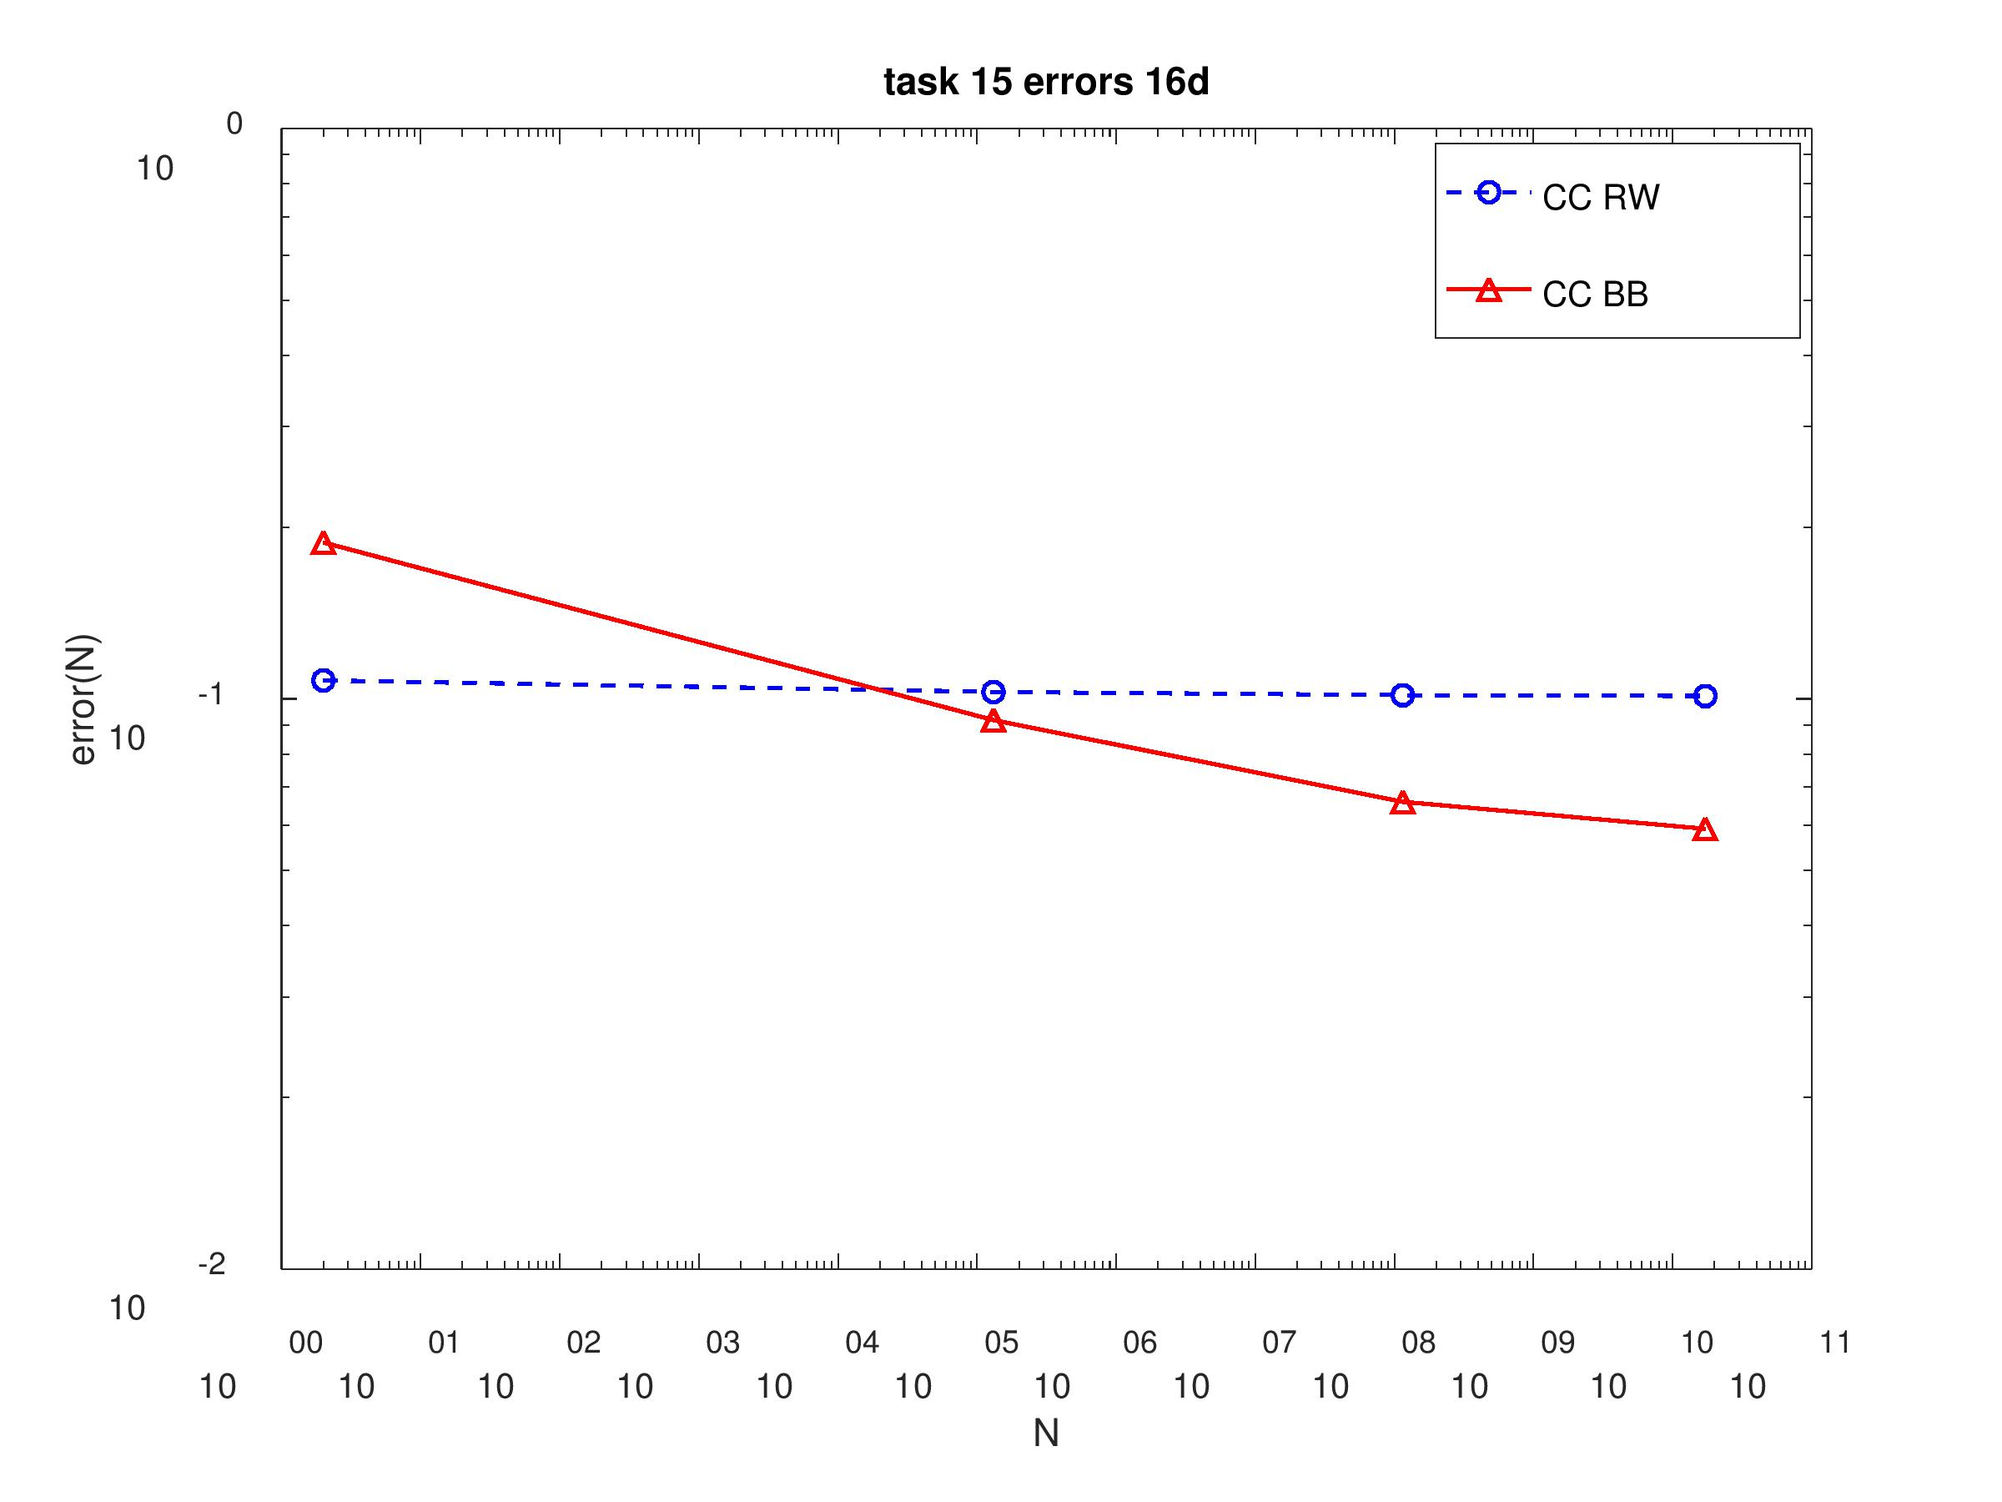
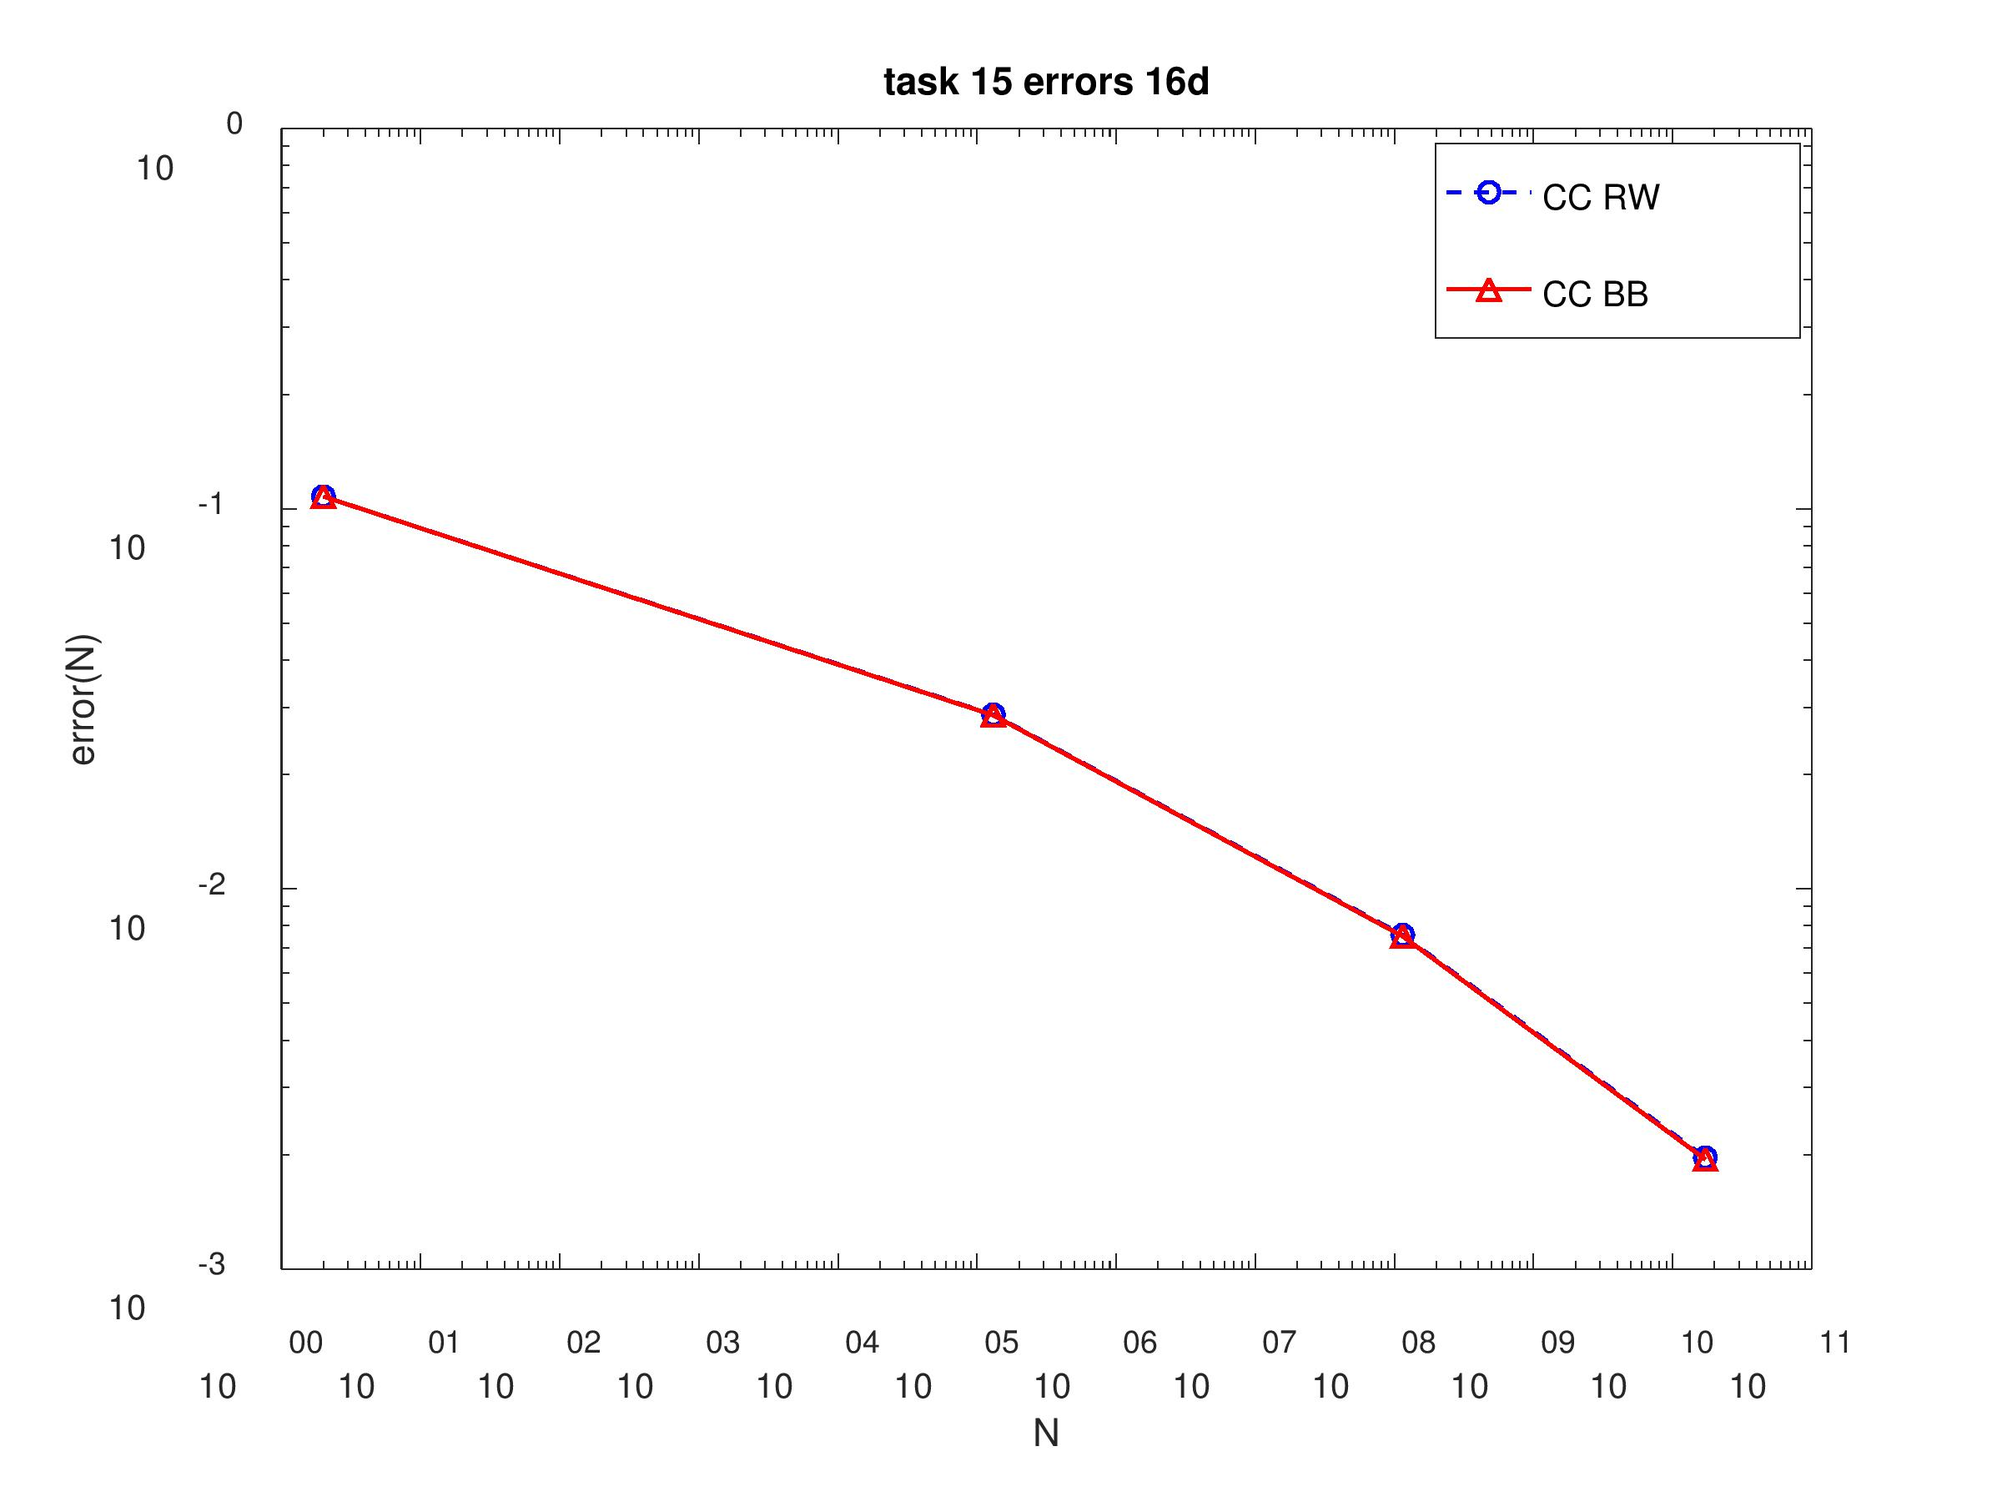
bugs15,16,17fixed

diff --git a/Final/worksheet_3/main.cpp b/Final/worksheet_3/main.cpp
@@ -201,7 +201,7 @@ int main(int argc, char* argv[])
 //	std::cout << discrete_geometric_average_simulation(rng, Task_3::s0, Task_3::r, Task_3::T, Task_3::M, Task_3::K, Task_3::sigma, N) << std::endl;
 
 //	std::cout << continuous_geometric_average_exact(Task_3::s0, Task_3::r, Task_3::T, Task_3::K, Task_3::sigma) << std::endl;
-
+/*
   Task_3::M = 10;
 	double calculated_result;
 	double exact_result;
@@ -212,7 +212,7 @@ int main(int argc, char* argv[])
         std::cout<<"Error opening the file"<<std::endl;
     }
 
-	for(int N=1; N<=1000000; N*=10)
+	for(int N=1; N<=1000000; N*=2)
 	{
 		calculated_result = discrete_geometric_average_simulation(rng, Task_3::s0, Task_3::r, Task_3::T, Task_3::M, Task_3::K, Task_3::sigma, N);
 		exact_result = discrete_geometric_average_exact(Task_3::s0, Task_3::r, Task_3::T, Task_3::M, Task_3::K, Task_3::sigma);
@@ -228,7 +228,7 @@ int main(int argc, char* argv[])
     }
 
 	Task_3::M = 200;
-	for(int N=1; N<=1000000; N*=10)
+	for(int N=1; N<=1000000; N*=2)
 	{
 		calculated_result = discrete_geometric_average_simulation(rng, Task_3::s0, Task_3::r, Task_3::T, Task_3::M, Task_3::K, Task_3::sigma, N);
 		exact_result = discrete_geometric_average_exact(Task_3::s0, Task_3::r, Task_3::T, Task_3::M, Task_3::K, Task_3::sigma);
@@ -236,8 +236,8 @@ int main(int argc, char* argv[])
 		myfile << N << " " << absolute_error << std::endl;
 	}
 
-	myfile.close();
-
+	myfile.close();*/
+/*
 	//////////////////////////////////////////////////////////
 	//////////////////////////Task_4//////////////////////////
 	//////////////////////////////////////////////////////////
@@ -435,7 +435,7 @@ int main(int argc, char* argv[])
 	//////////////////////////////////////////////////////////
 	//////////////////////////Task_7//////////////////////////
 	//////////////////////////////////////////////////////////
-	/*
+*/	/*
 	std::cout << "Van der Corput Sequence" << std::endl;
 	std::vector<double> x = van_der_corput_sequence(3, 10, pow(10.,-12.));
 	for(int i=0; i<10; i++)
@@ -446,7 +446,7 @@ int main(int argc, char* argv[])
 	for(int i=0; i<20; i++)
 		std::cout << prime_numbers[i] << std::endl;
 	*/
-
+/*
 	Task_7::d = 2;
 	Task_7::n = 100;
 
@@ -614,7 +614,7 @@ int main(int argc, char* argv[])
 
 
 
-
+*/
 
 	//////////////////////////////////////////////////////////
 	//////////////////////////Task_15/////////////////////////
@@ -627,8 +627,7 @@ int main(int argc, char* argv[])
 	Task_15::sigma = 0.25;
 	Task_15::mu = 0.1;
 	Task_15::K = 0;
-    Task_15::scale_factor = exp(-Task_15::mu*Task_15::T);
-	Task_15::nodes = new std::vector<std::vector<double> >(Task_15::dimension_M);
+    Task_15::nodes = new std::vector<std::vector<double> >(Task_15::dimension_M);
 	Task_15::weights = new std::vector<std::vector<double> >(Task_15::dimension_M);
     Task_15::write_in_file = false;
     Task_15::use_trap_rule = false;
@@ -649,8 +648,8 @@ int main(int argc, char* argv[])
 		myfile << Task_15::N << "	";
         Task_15::simulation_result_rw = integrate_with_sparse_grid(asian_option_call_integrand,Task_15::dimension_M,l,Task_15::nodes, Task_15::weights,Task_15::write_in_file,Task_15::use_trap_rule,Task_15::S0, Task_15::K,Task_15::sigma,Task_15::mu,Task_15::dimension_M,Task_15::T,false);
 		Task_15::simulation_result_bb = integrate_with_sparse_grid(asian_option_call_integrand,Task_15::dimension_M,l,Task_15::nodes, Task_15::weights,Task_15::write_in_file,Task_15::use_trap_rule,Task_15::S0, Task_15::K,Task_15::sigma,Task_15::mu,Task_15::dimension_M,Task_15::T,Task_15::use_bb);
-        myfile << fabs(Task_15::scale_factor*Task_15::simulation_result_rw-Task_15::exact_value) << "	";
-		myfile << fabs(Task_15::scale_factor*Task_15::simulation_result_bb-Task_15::exact_value) << std::endl;
+        myfile << fabs(Task_15::simulation_result_rw-Task_15::exact_value) << "	";
+		myfile << fabs(Task_15::simulation_result_bb-Task_15::exact_value) << std::endl;
 
 	}
 	myfile.close();
@@ -668,7 +667,7 @@ int main(int argc, char* argv[])
     Task_16::sigma = 0.25;
     Task_16::mu = 0.1;
     Task_16::K = 0;
-    Task_16::scale_factor = exp(-Task_16::mu*Task_16::T);
+    
 
     Task_16::write_in_file = false;
     Task_16::use_trap_rule = false;
@@ -699,11 +698,11 @@ int main(int argc, char* argv[])
         quasi_monte_carlo_multivariate(Task_16::nodes, Task_16::weights_vec, (int)Task_16::N, Task_16::dimension_M);
         Task_16::calculated_result = integrate_by_point_evaluation_multivariate(asian_option_call_integrand, (int)Task_16::N, Task_16::nodes, Task_16::weights_vec, Task_16::S0,Task_16::K,Task_16::sigma,Task_16::mu,Task_16::dimension_M,Task_16::T,false);
         
-        myfile<<fabs(Task_16::exact_value-Task_16::scale_factor*Task_16::calculated_result)<<" ";
+        myfile<<fabs(Task_16::exact_value-Task_16::calculated_result)<<" ";
         //QMC with Brownian Bridge
         Task_16::calculated_result = integrate_by_point_evaluation_multivariate(asian_option_call_integrand, (int)Task_16::N, Task_16::nodes, Task_16::weights_vec, Task_16::S0,Task_16::K,Task_16::sigma,Task_16::mu,Task_16::dimension_M,Task_16::T,true);
         
-        myfile<<fabs(Task_16::exact_value-Task_16::scale_factor*Task_16::calculated_result)<<" ";
+        myfile<<fabs(Task_16::exact_value-Task_16::calculated_result)<<" ";
         free(Task_16::nodes);
         free(Task_16::weights_vec);
         //////////////////////////////////
@@ -715,10 +714,10 @@ int main(int argc, char* argv[])
         monte_carlo_multivariate(Task_16::nodes, Task_16::weights_vec, (int)Task_16::N, Task_16::dimension_M,rng);
         Task_16::calculated_result = integrate_by_point_evaluation_multivariate(asian_option_call_integrand, (int)Task_16::N, Task_16::nodes, Task_16::weights_vec, Task_16::S0,Task_16::K,Task_16::sigma,Task_16::mu,Task_16::dimension_M,Task_16::T,false);
         
-        myfile<<fabs(Task_16::exact_value-Task_16::scale_factor*Task_16::calculated_result)<<" ";
+        myfile<<fabs(Task_16::exact_value-Task_16::calculated_result)<<" ";
         //MC with Brownian Bridge
         Task_16::calculated_result = integrate_by_point_evaluation_multivariate(asian_option_call_integrand, (int)Task_16::N, Task_16::nodes, Task_16::weights_vec, Task_16::S0,Task_16::K,Task_16::sigma,Task_16::mu,Task_16::dimension_M,Task_16::T,true);
-        myfile<<fabs(Task_16::exact_value-Task_16::scale_factor*Task_16::calculated_result)<<" ";
+        myfile<<fabs(Task_16::exact_value-Task_16::calculated_result)<<" ";
         
         free(Task_16::nodes);
         free(Task_16::weights_vec);
@@ -734,11 +733,11 @@ int main(int argc, char* argv[])
         
         Task_16::calculated_result = integrate_by_point_evaluation_multivariate(asian_option_call_integrand, (int)pow(Task_16::N_full_grid,Task_16::dimension_M), Task_16::nodes, Task_16::weights_vec, Task_16::S0,Task_16::K,Task_16::sigma,Task_16::mu,Task_16::dimension_M,Task_16::T,false);
         
-        myfile<<fabs(Task_16::exact_value-Task_16::scale_factor*Task_16::calculated_result)<<" ";
+        myfile<<fabs(Task_16::exact_value-Task_16::calculated_result)<<" ";
         //with_Brownian_Bridge
         Task_16::calculated_result = integrate_by_point_evaluation_multivariate(asian_option_call_integrand, (int)pow(Task_16::N_full_grid,Task_16::dimension_M), Task_16::nodes, Task_16::weights_vec, Task_16::S0,Task_16::K,Task_16::sigma,Task_16::mu,Task_16::dimension_M,Task_16::T,true);
         
-        myfile<<fabs(Task_16::exact_value-Task_16::scale_factor*Task_16::calculated_result)<<" ";
+        myfile<<fabs(Task_16::exact_value-Task_16::calculated_result)<<" ";
         free(Task_16::nodes);
         free(Task_16::weights_vec);
         //////////////////////////////////
@@ -751,11 +750,11 @@ int main(int argc, char* argv[])
         
         Task_16::calculated_result = integrate_by_point_evaluation_multivariate(asian_option_call_integrand, (int)pow(Task_16::N_full_grid,Task_16::dimension_M), Task_16::nodes, Task_16::weights_vec, Task_16::S0,Task_16::K,Task_16::sigma,Task_16::mu,Task_16::dimension_M,Task_16::T,false);
         
-        myfile<<fabs(Task_16::exact_value-Task_16::scale_factor*Task_16::calculated_result)<<" ";
+        myfile<<fabs(Task_16::exact_value-Task_16::calculated_result)<<" ";
         //with_Brownian_Bridge
         Task_16::calculated_result = integrate_by_point_evaluation_multivariate(asian_option_call_integrand, (int)pow(Task_16::N_full_grid,Task_16::dimension_M), Task_16::nodes, Task_16::weights_vec, Task_16::S0,Task_16::K,Task_16::sigma,Task_16::mu,Task_16::dimension_M,Task_16::T,true);
         
-        myfile<<fabs(Task_16::exact_value-Task_16::scale_factor*Task_16::calculated_result)<<" ";
+        myfile<<fabs(Task_16::exact_value-Task_16::calculated_result)<<" ";
         
         free(Task_16::nodes);
         free(Task_16::weights_vec);
@@ -769,10 +768,10 @@ int main(int argc, char* argv[])
         //without_Brownian_Bridge
         Task_16::simulation_result_rw = integrate_with_sparse_grid(asian_option_call_integrand,Task_16::dimension_M,l,Task_16::nodes, Task_16::weights,Task_16::write_in_file,true,Task_16::S0, Task_16::K,Task_16::sigma,Task_16::mu,Task_16::dimension_M,Task_16::T,false);
         
-        myfile << fabs(Task_16::scale_factor*Task_16::simulation_result_rw-Task_16::exact_value)<<" ";
+        myfile << fabs(Task_16::simulation_result_rw-Task_16::exact_value)<<" ";
         //with_Brownian_Bridge
         Task_16::simulation_result_bb = integrate_with_sparse_grid(asian_option_call_integrand,Task_16::dimension_M,l,Task_16::nodes, Task_16::weights,Task_16::write_in_file,true,Task_16::S0, Task_16::K,Task_16::sigma,Task_16::mu,Task_16::dimension_M,Task_16::T,true);
-        myfile << fabs(Task_16::scale_factor*Task_16::simulation_result_bb-Task_16::exact_value)<<" ";
+        myfile << fabs(Task_16::simulation_result_bb-Task_16::exact_value)<<" ";
         
         free(Task_16::nodes);
         free(Task_16::weights);
@@ -786,10 +785,10 @@ int main(int argc, char* argv[])
         //without_Brownian_Bridge
         Task_16::simulation_result_rw = integrate_with_sparse_grid(asian_option_call_integrand,Task_16::dimension_M,l,Task_16::nodes, Task_16::weights,Task_16::write_in_file,false,Task_16::S0, Task_16::K,Task_16::sigma,Task_16::mu,Task_16::dimension_M,Task_16::T,false);
         
-        myfile << fabs(Task_16::scale_factor*Task_16::simulation_result_rw-Task_16::exact_value) <<" ";
+        myfile << fabs(Task_16::simulation_result_rw-Task_16::exact_value) <<" ";
         //with_Brownian_Bridge
         Task_16::simulation_result_bb = integrate_with_sparse_grid(asian_option_call_integrand,Task_16::dimension_M,l,Task_16::nodes, Task_16::weights,Task_16::write_in_file,false,Task_16::S0, Task_16::K,Task_16::sigma,Task_16::mu,Task_16::dimension_M,Task_16::T,true);
-        myfile << fabs(Task_16::scale_factor*Task_16::simulation_result_bb-Task_16::exact_value)<<std::endl;
+        myfile << fabs(Task_16::simulation_result_bb-Task_16::exact_value)<<std::endl;
         
         free(Task_16::nodes);
         free(Task_16::weights);
@@ -811,7 +810,7 @@ int main(int argc, char* argv[])
     Task_17::sigma = 0.25;
     Task_17::mu = 0.1;
     Task_17::K = 10;
-    Task_17::scale_factor = exp(-Task_17::mu*Task_17::T);
+    
     Task_17::write_in_file = false;
     Task_17::use_trap_rule = false;
     Task_17::use_bb = true;
@@ -847,10 +846,10 @@ int main(int argc, char* argv[])
         quasi_monte_carlo_multivariate(Task_17::nodes, Task_17::weights_vec, (int)Task_17::N, Task_17::dimension_M);
 
         Task_17::calculated_result = integrate_by_point_evaluation_multivariate(asian_option_call_integrand, (int)Task_17::N, Task_17::nodes, Task_17::weights_vec, Task_17::S0,Task_17::K,Task_17::sigma,Task_17::mu,Task_17::dimension_M,Task_17::T,false);
-        myfile<<fabs(Task_17::exact_value-Task_17::scale_factor*Task_17::calculated_result)<<" ";
+        myfile<<fabs(Task_17::exact_value-Task_17::calculated_result)<<" ";
         //QMC with Brownian Bridge
         Task_17::calculated_result = integrate_by_point_evaluation_multivariate(asian_option_call_integrand, (int)Task_17::N, Task_17::nodes, Task_17::weights_vec, Task_17::S0,Task_17::K,Task_17::sigma,Task_17::mu,Task_17::dimension_M,Task_17::T,true);
-        myfile<<fabs(Task_17::exact_value-Task_17::scale_factor*Task_17::calculated_result)<<" ";
+        myfile<<fabs(Task_17::exact_value-Task_17::calculated_result)<<" ";
         free(Task_17::nodes);
         free(Task_17::weights_vec);
        
@@ -862,10 +861,10 @@ int main(int argc, char* argv[])
         //MC without Brownian Bridge
         monte_carlo_multivariate(Task_17::nodes, Task_17::weights_vec, (int)Task_17::N, Task_17::dimension_M,rng);
         Task_17::calculated_result = integrate_by_point_evaluation_multivariate(asian_option_call_integrand, (int)Task_17::N, Task_17::nodes, Task_17::weights_vec, Task_17::S0,Task_17::K,Task_17::sigma,Task_17::mu,Task_17::dimension_M,Task_17::T,false);
-        myfile<<fabs(Task_17::exact_value-Task_17::scale_factor*Task_17::calculated_result)<<" ";
+        myfile<<fabs(Task_17::exact_value-Task_17::calculated_result)<<" ";
         //MC with Brownian Bridge
         Task_17::calculated_result = integrate_by_point_evaluation_multivariate(asian_option_call_integrand, (int)Task_17::N, Task_17::nodes, Task_17::weights_vec, Task_17::S0,Task_17::K,Task_17::sigma,Task_17::mu,Task_17::dimension_M,Task_17::T,true);
-        myfile<<fabs(Task_17::exact_value-Task_17::scale_factor*Task_17::calculated_result)<<std::endl;
+        myfile<<fabs(Task_17::exact_value-Task_17::calculated_result)<<std::endl;
         free(Task_17::nodes);
         free(Task_17::weights_vec);
     }

diff --git a/Final/header_files/multivariate_integration.cpp b/Final/header_files/multivariate_integration.cpp
@@ -202,7 +202,7 @@ double discrete_geometric_average_exact(double s0, double r, double T, int M, do
 	double delta_t = T/(double)M;
 	double T1 = T-((M*(M-1.)*(4.*M+1.))/(6.*M*M))*delta_t;
 	double T2 = T-((M-1.)/2.)*delta_t;
-	double A = exp(-r*(T-T2)-(sigma*sigma*(T2-T1))/2);
+	double A = exp(-r*(T-T2)-(sigma*sigma*(T2-T1))/2.);
 	double d = (log(s0/K)+(r-0.5*sigma*sigma)*T2)/(sigma*sqrt(T1));
 
 	return s0*A*normal_cdf(d+sigma*sqrt(T1))-K*exp(-r*T)*normal_cdf(d);
@@ -229,11 +229,11 @@ double discrete_geometric_average_simulation(gsl_rng* rng, double s0, double r, 
 		s = brownian_motion(rng, T, delta_t, w, s0, r, sigma);
 
 		double product = 1.0;
-		for(int j=0; j<M; j++)
+		for(int j=1; j<=M; j++)
 		{
 			product *= (*s)[j];
 		}
-		product = pow(product, 1./(double)M)-K;
+		product = pow(exp(-r*T)*product, 1./(double)M)-K;
 		if(product > 0)
 			result += product;
 	}
@@ -286,22 +286,23 @@ double asian_option_call_integrand(std::vector<double>* x,double S0,double K, do
         delta_t = T/M;
         w[0] = 0.0;
         for (int i = 1; i <= M; i++) {
-            result *= S0*exp((mu-0.5*sigma*sigma)*i*delta_t+sigma*(w[i-1]+delta_t*normal_inverse_cdf((*x)[i-1])));
-            w[i] = w[i-1]+delta_t*normal_inverse_cdf((*x)[i-1]);
+            result *= S0*exp((mu-0.5*sigma*sigma)*i*delta_t+sigma*(w[i-1]+sqrt(delta_t)*normal_inverse_cdf((*x)[i-1])));
+            w[i] = w[i-1]+sqrt(delta_t)*normal_inverse_cdf((*x)[i-1]);
         }
         w.resize(M);
     }
     else if(use_bb==true){
 		w[0] = 0.0;
 		w[1]=sqrt(T)*normal_inverse_cdf((*x)[M-1]);
+        int count = 0;
 
         for (int i = 1; i <= max_level; i++) {
             delta_t = T/(pow(2,(double)i));
 			for (int j = 0; j < pow(2,i); j+=2) {
-                helper = 0.5*(w[j]+w[j+1])+sqrt(delta_t/2.)*normal_inverse_cdf((*x)[j]);
-                result =result * S0*exp((mu-0.5*sigma*sigma)*j*delta_t+sigma*(helper));
+                helper = 0.5*(w[j]+w[j+1])+sqrt(delta_t/2.)*normal_inverse_cdf((*x)[count]);
+                result =result * S0*exp((mu-0.5*sigma*sigma)*(j+1)*delta_t+sigma*(helper));
                 w.emplace(w.begin()+j+1, helper);
-                
+                count++;
 
 
 			 }
@@ -313,7 +314,7 @@ double asian_option_call_integrand(std::vector<double>* x,double S0,double K, do
     };
     
     
-    result = pow(result,1./M)-K;
+    result = exp(-mu*T)*pow(result,1./M)-K;
     if(result>0.0){
         return result;
     }
